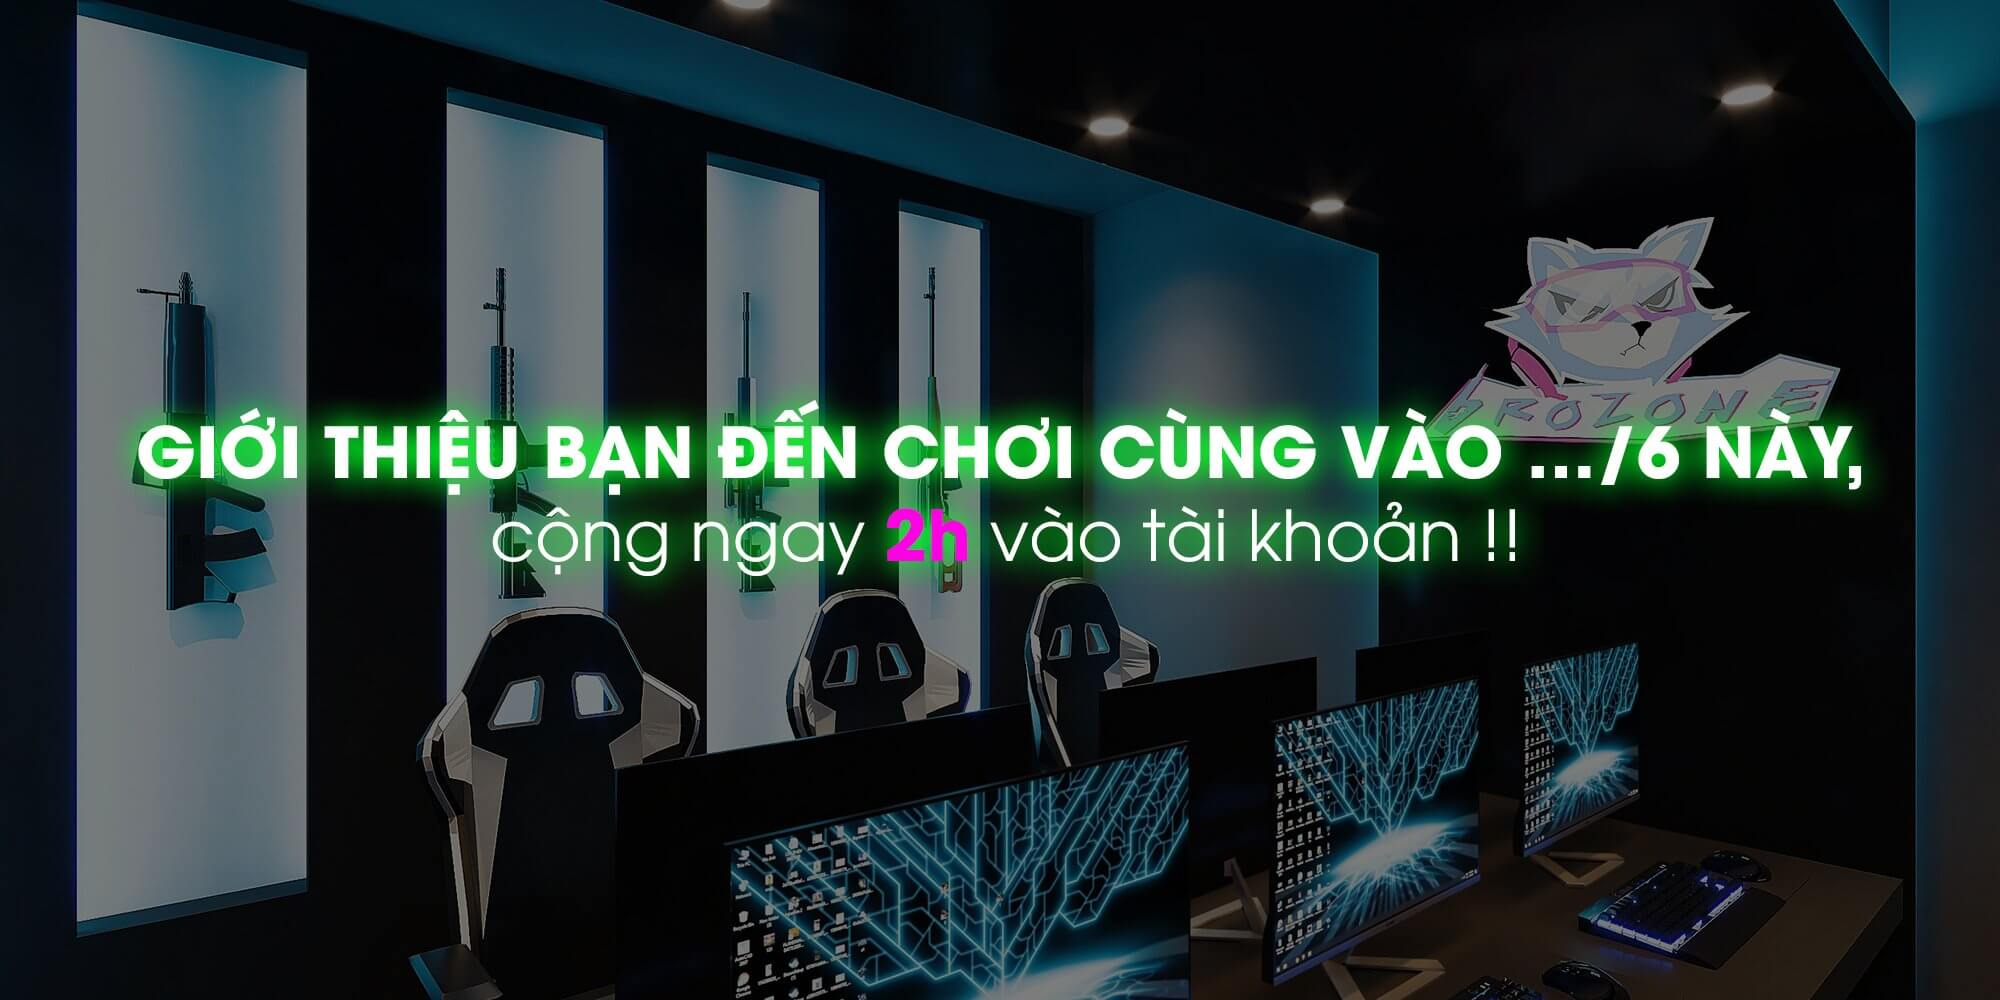
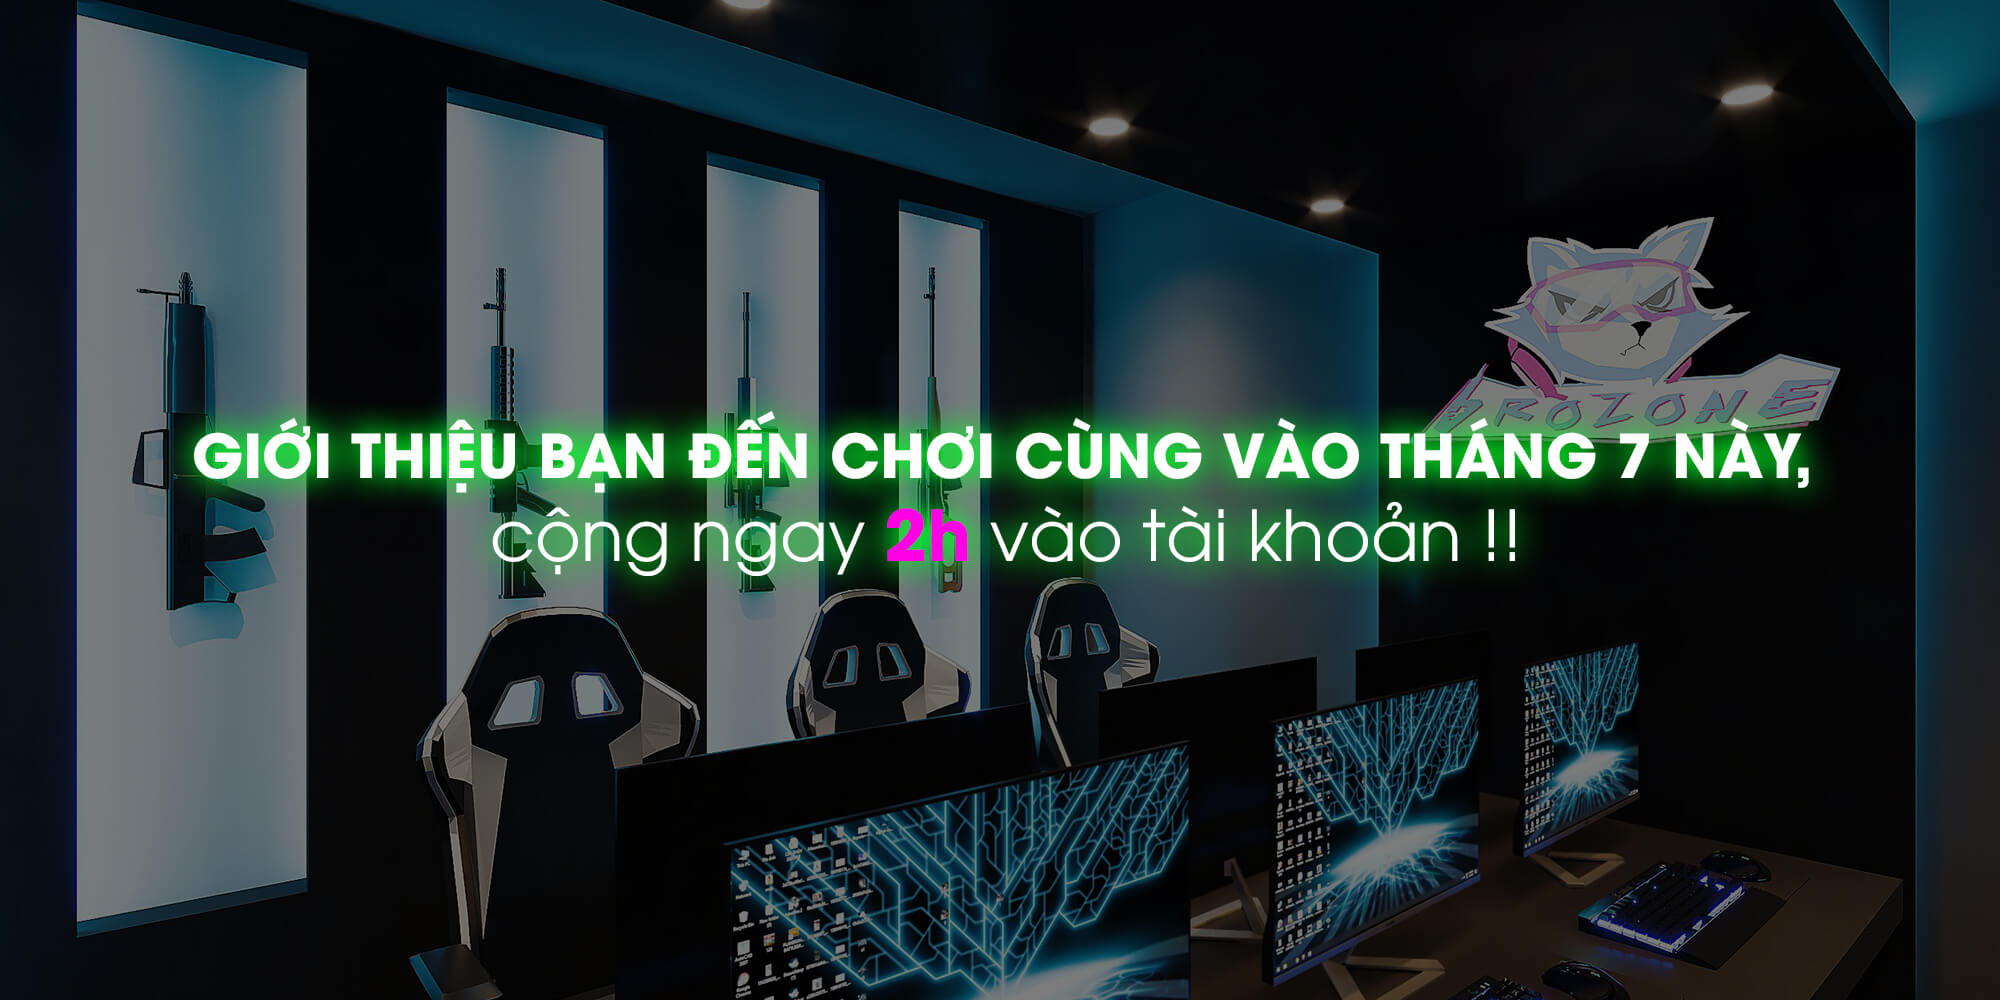
Update laucnh day

Changed region(s): [[0.062, 0.403, 0.961, 0.558]]

diff --git a/index.html b/index.html
@@ -71,9 +71,9 @@
                     <label for="input-date" class="form-label">Ngày dự kiến đến chơi</label>
                     <select class="form-select" id="input-date" name="play-date" required v-model="date">
                       <option disabled selected value=""> -- Chọn -- </option>
-                      <option value="19/6">19/6</option>
-                      <option value="20/6">20/6</option>
-                      <option value="21/6">21/6</option>
+                      <option value="02/07">02/07</option>
+                      <option value="03/07">03/07</option>
+                      <option value="04/07">04/07</option>
                     </select>
                   </div>
                   <div class="mb-3 col">
@@ -96,7 +96,7 @@
                   </p>
                 </template>
                 <div class="alert alert-success rounded-0 form__message-success js-form-message-success" role="alert" v-if="submitSuccess" v-cloak>
-                  Quý khách đã đăng ký thành công! Hẹn gặp quý khách tại Brozone Cyber ❤ <br>12 Hoàng Ngọc Phách, Lê Chân, Hải Phòng.
+                  Quý khách đã đăng ký thành công. Khi đến vui lòng kích hoạt tài khoản tại quầy lễ tân. Hẹn gặp quý khách tại Brozone Cyber Game 12 Hoàng Ngọc Phách ❤.
                 </div>
                 <button type="submit" class="btn btn-dark form__button" :disabled="!submitable"><span>Đăng ký ngay</span></button>
               </form>
@@ -169,6 +169,13 @@
       </div>
     </section>
 
+    <section class="section-padding map">
+      <div class="container">
+        <h2 class="text-uppercase mb-4 mb-lg-5 map__title">Bản đồ</h2>
+        <img class="map__image" src="/images/map.png" alt="Bản đồ" loading="lazy">
+      </div>
+    </section>
+
     <footer class="footer">
       <div class="container">
         <div class="row gy-2 justify-content-between">
@@ -182,7 +189,7 @@
 
   <script src="https://cdn.jsdelivr.net/npm/bootstrap@5.0.1/dist/js/bootstrap.bundle.min.js" integrity="sha384-gtEjrD/SeCtmISkJkNUaaKMoLD0//ElJ19smozuHV6z3Iehds+3Ulb9Bn9Plx0x4" crossorigin="anonymous"></script>
   <script src="https://unpkg.com/flickity@2/dist/flickity.pkgd.min.js"></script>
-  <script src="https://unpkg.com/vue@3.0.2"></script>
+  <script src="https://unpkg.com/vue@3.0.2/dist/vue.global.prod.js"></script>
   <script src="https://www.gstatic.com/firebasejs/8.6.8/firebase-app.js"></script>
   <script src="https://www.gstatic.com/firebasejs/8.6.8/firebase-firestore.js"></script>
   <script src="https://www.gstatic.com/firebasejs/8.6.8/firebase-analytics.js"></script>
